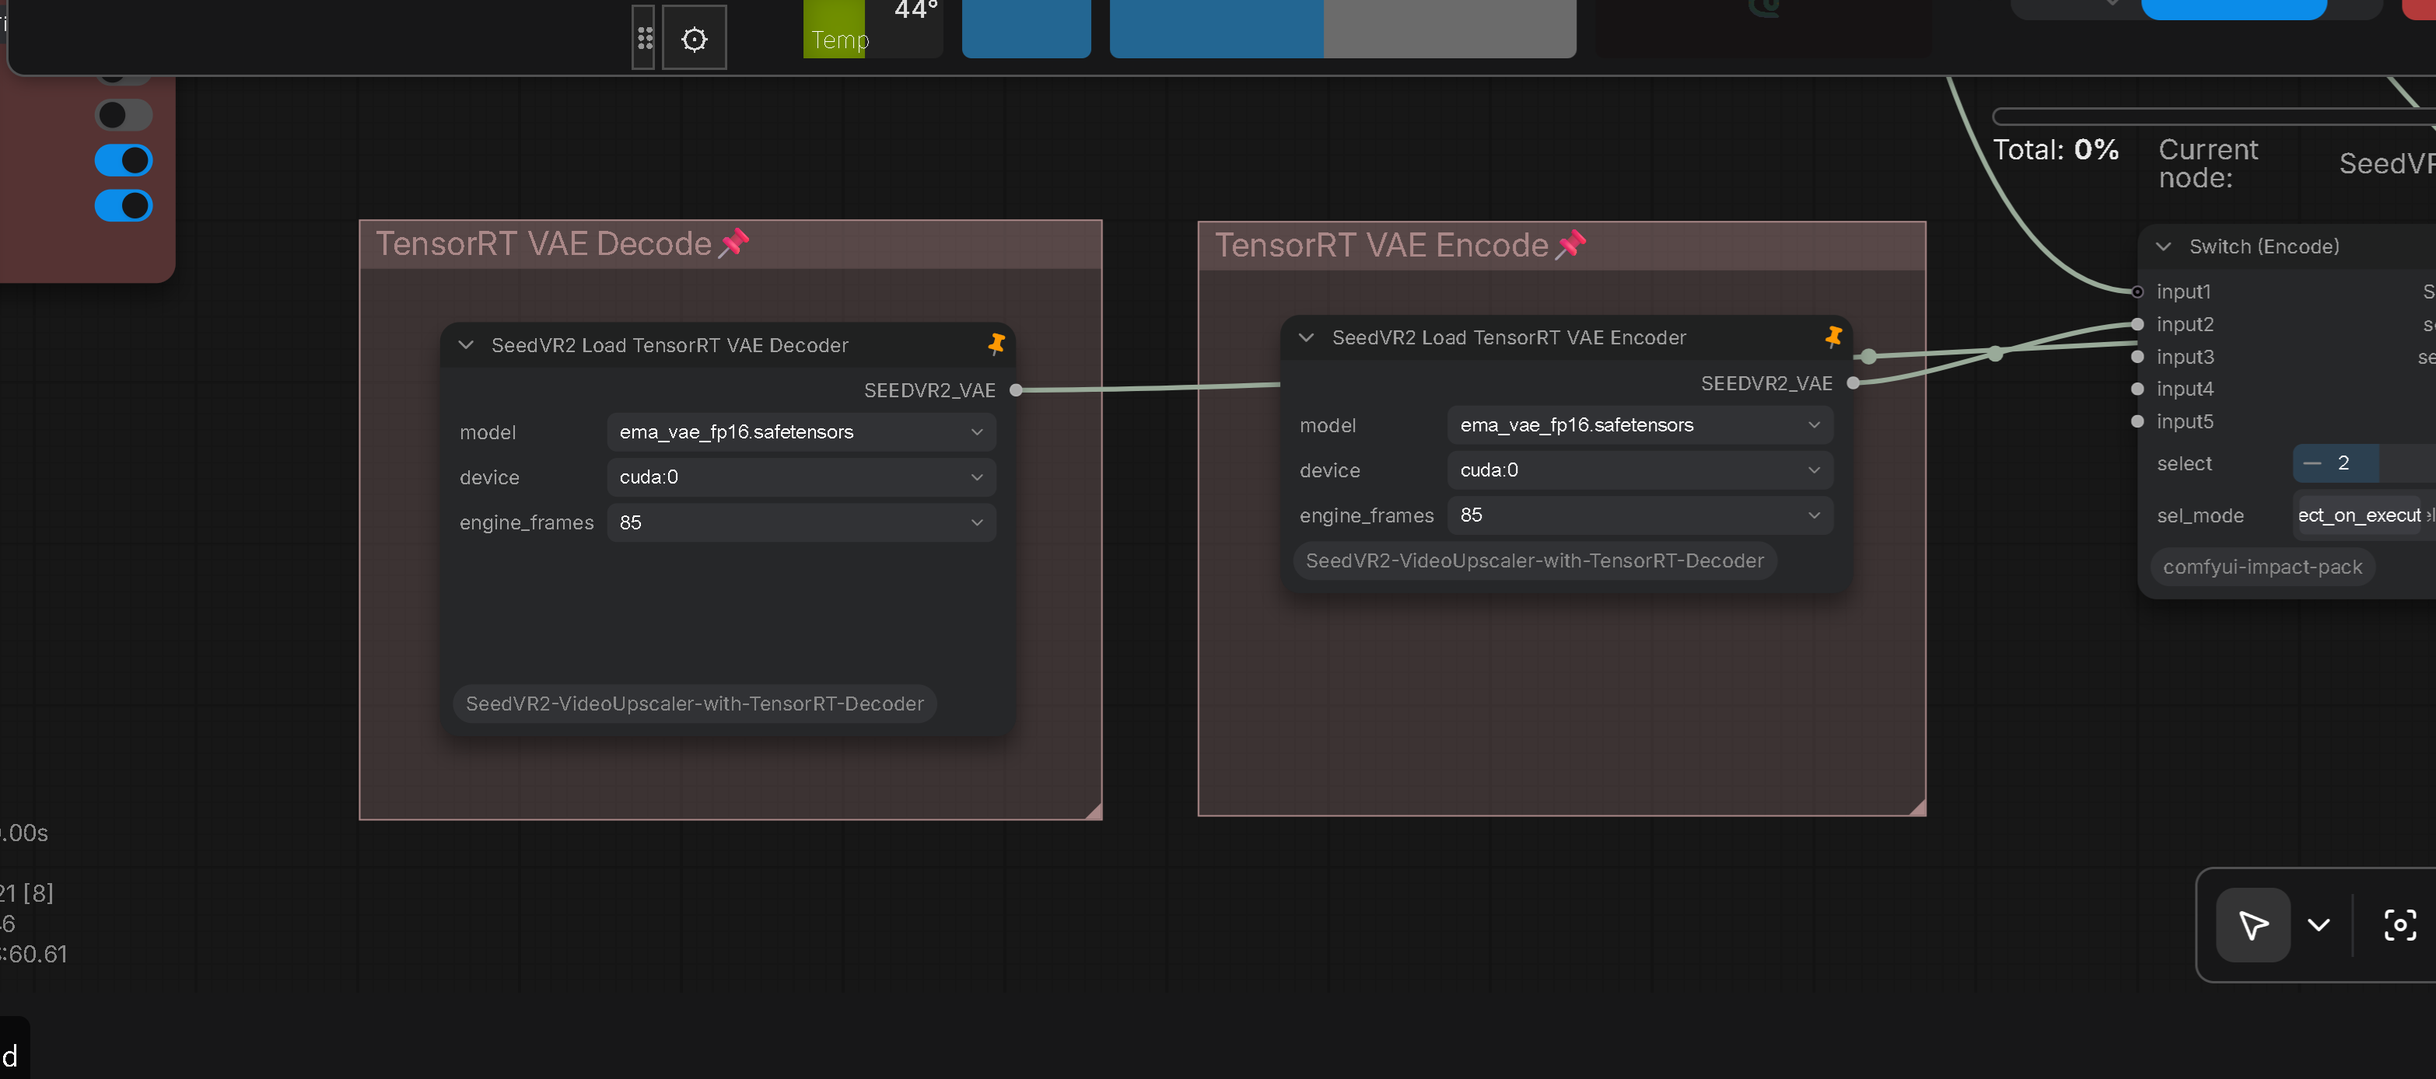
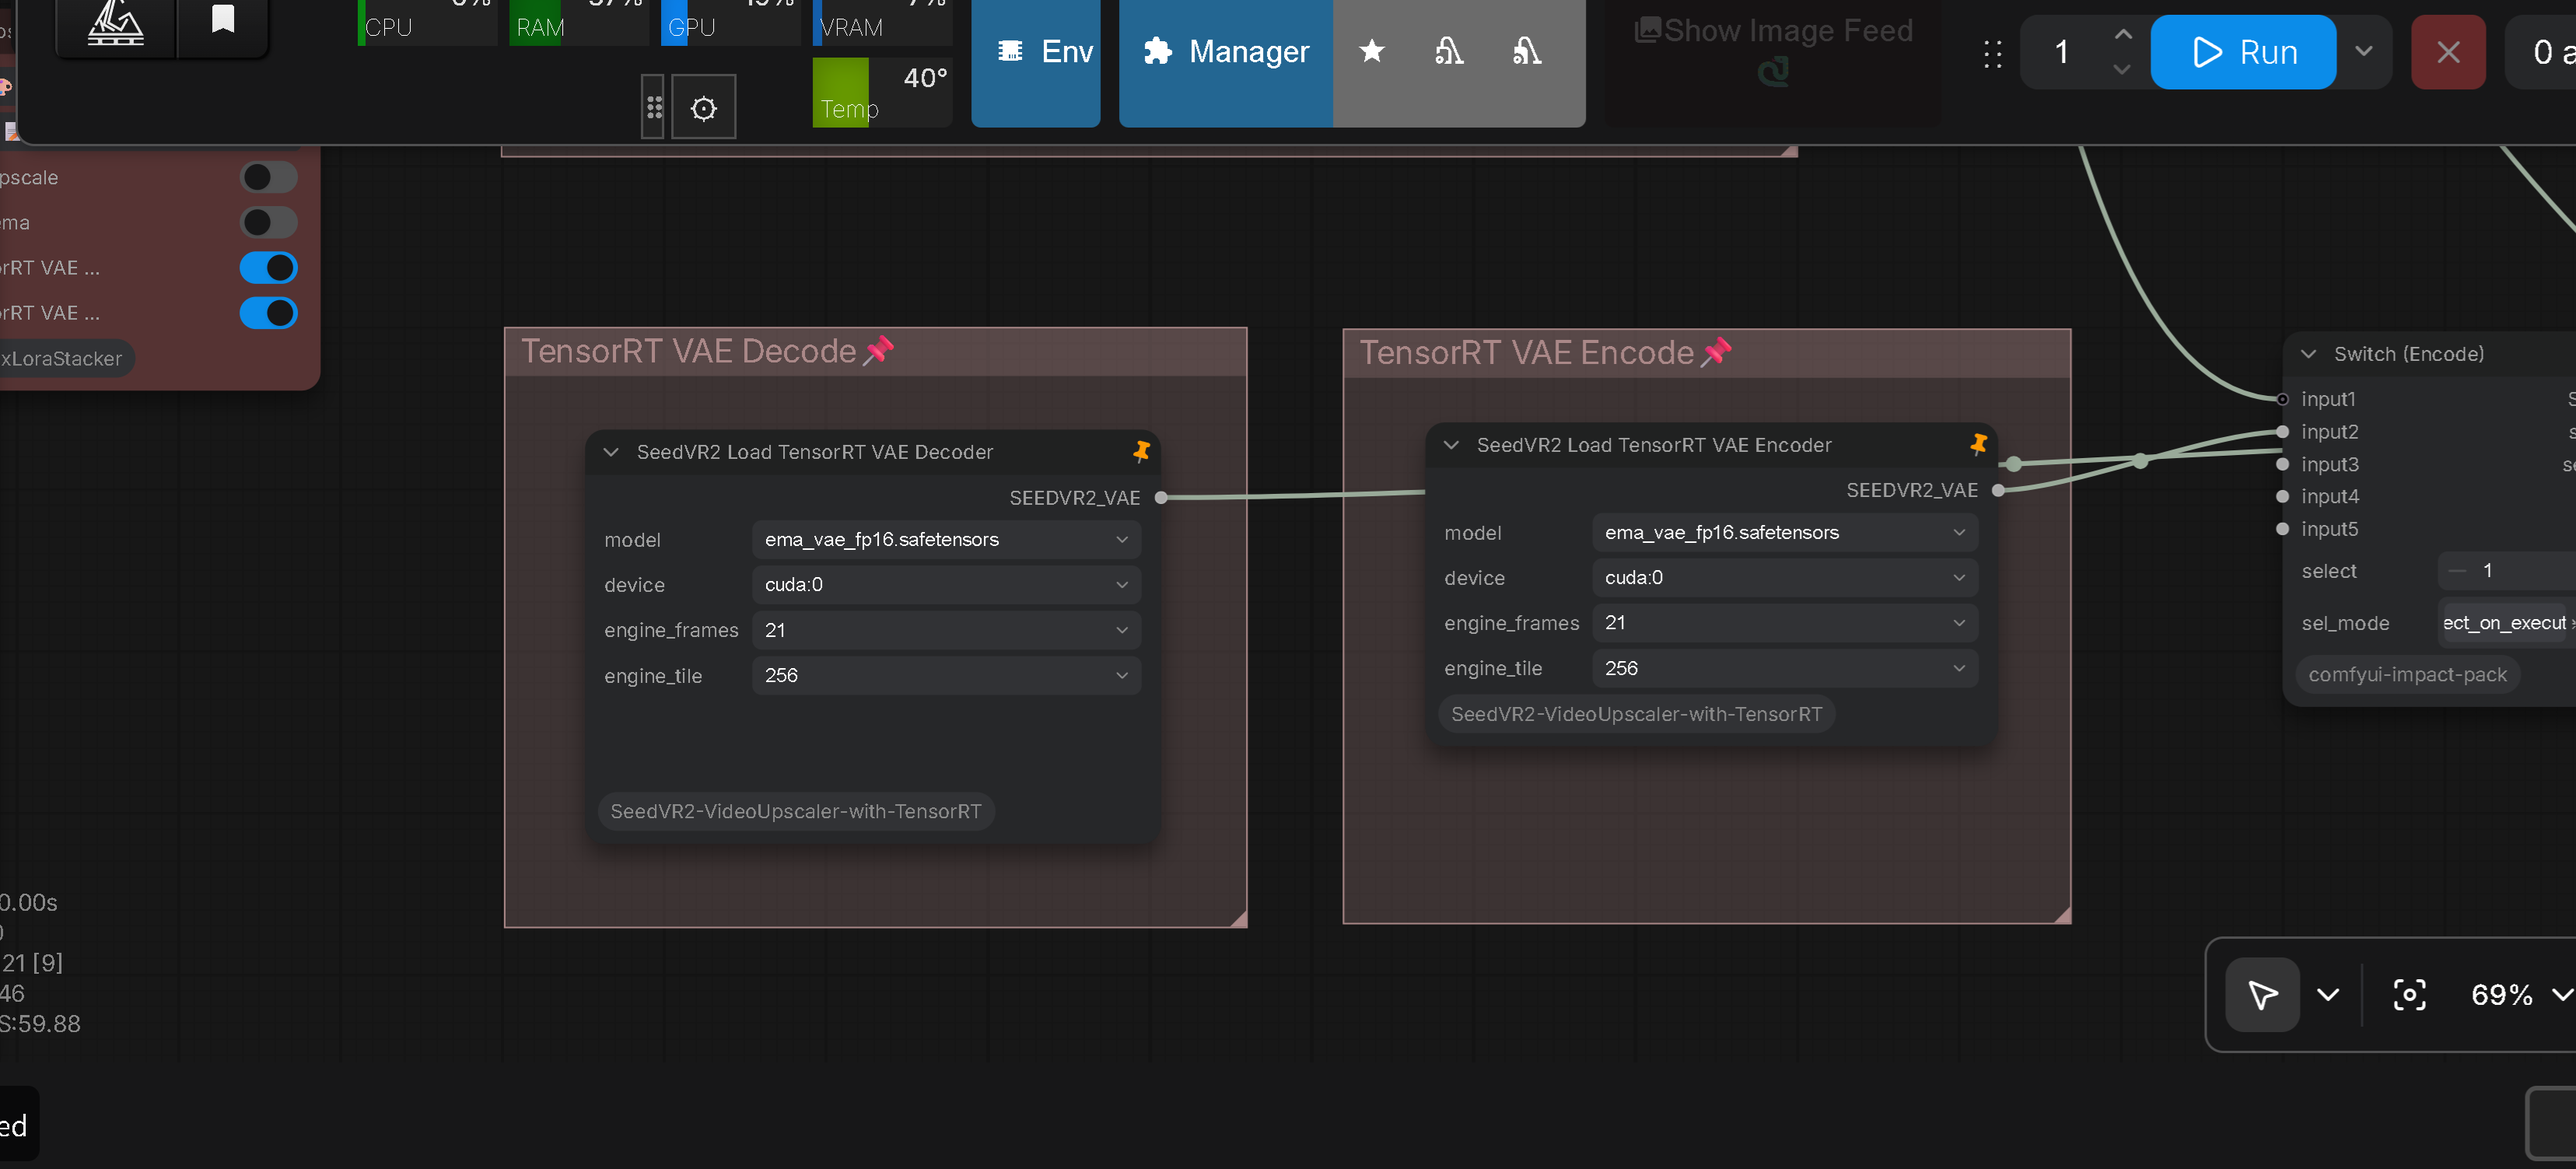
docs: refresh usage_02 screenshot and document engine_tile (auto/256/512) on TRT VAE loader nodes

diff --git a/README.md b/README.md
@@ -27,6 +27,8 @@ This repository is a fork of the official repository ([https://github.com/numz/C
 
 ![Usage Example - TensorRT VAE Encoder & Decoder Nodes](https://raw.githubusercontent.com/ussoewwin/ComfyUI-SeedVR2-VideoUpscaler-with-TensorRT/main/docs/usage_02.png)
 
+The **`SeedVR2 Load TensorRT VAE Encoder`** and **`SeedVR2 Load TensorRT VAE Decoder`** nodes provide two selectors: **`engine_frames`** (engine frame size; `auto` = largest available) and **`engine_tile`** (spatial tile; `auto` / `256` / `512`). `auto` keeps the default preference (Encoder: 512px first; Decoder: 256px first, 512px legacy fallback), while `256` / `512` strictly restrict the engine to that tile — if no engine exists for the selected tile, the node raises an explicit error instead of silently falling back.
+
 ### TensorRT VAE Engine Builder Node
 
 - Workflow JSON: [`example_workflows/Tensor Build.json`](example_workflows/Tensor%20Build.json)

diff --git a/zhmd/README.md b/zhmd/README.md
@@ -27,6 +27,8 @@
 
 ![Usage Example - TensorRT VAE Encoder & Decoder Nodes](https://raw.githubusercontent.com/ussoewwin/ComfyUI-SeedVR2-VideoUpscaler-with-TensorRT/main/docs/usage_02.png)
 
+**`SeedVR2 Load TensorRT VAE Encoder`** 与 **`SeedVR2 Load TensorRT VAE Decoder`** 节点提供两个选择器：**`engine_frames`**（引擎帧长规格；`auto` = 使用可用的最大引擎）与 **`engine_tile`**（空间分块；`auto` / `256` / `512`）。`auto` 保持默认偏好（编码器优先 512px，解码器优先 256px、512px 作为旧版回退）；选择 `256` 或 `512` 时将严格限定为该分块的引擎——若对应分块的引擎不存在，节点会直接报错，而不会静默回退到其他分块。
+
 ### TensorRT VAE 引擎构建节点
 
 - 工作流 JSON：[`example_workflows/Tensor Build.json`](../example_workflows/Tensor%20Build.json)
